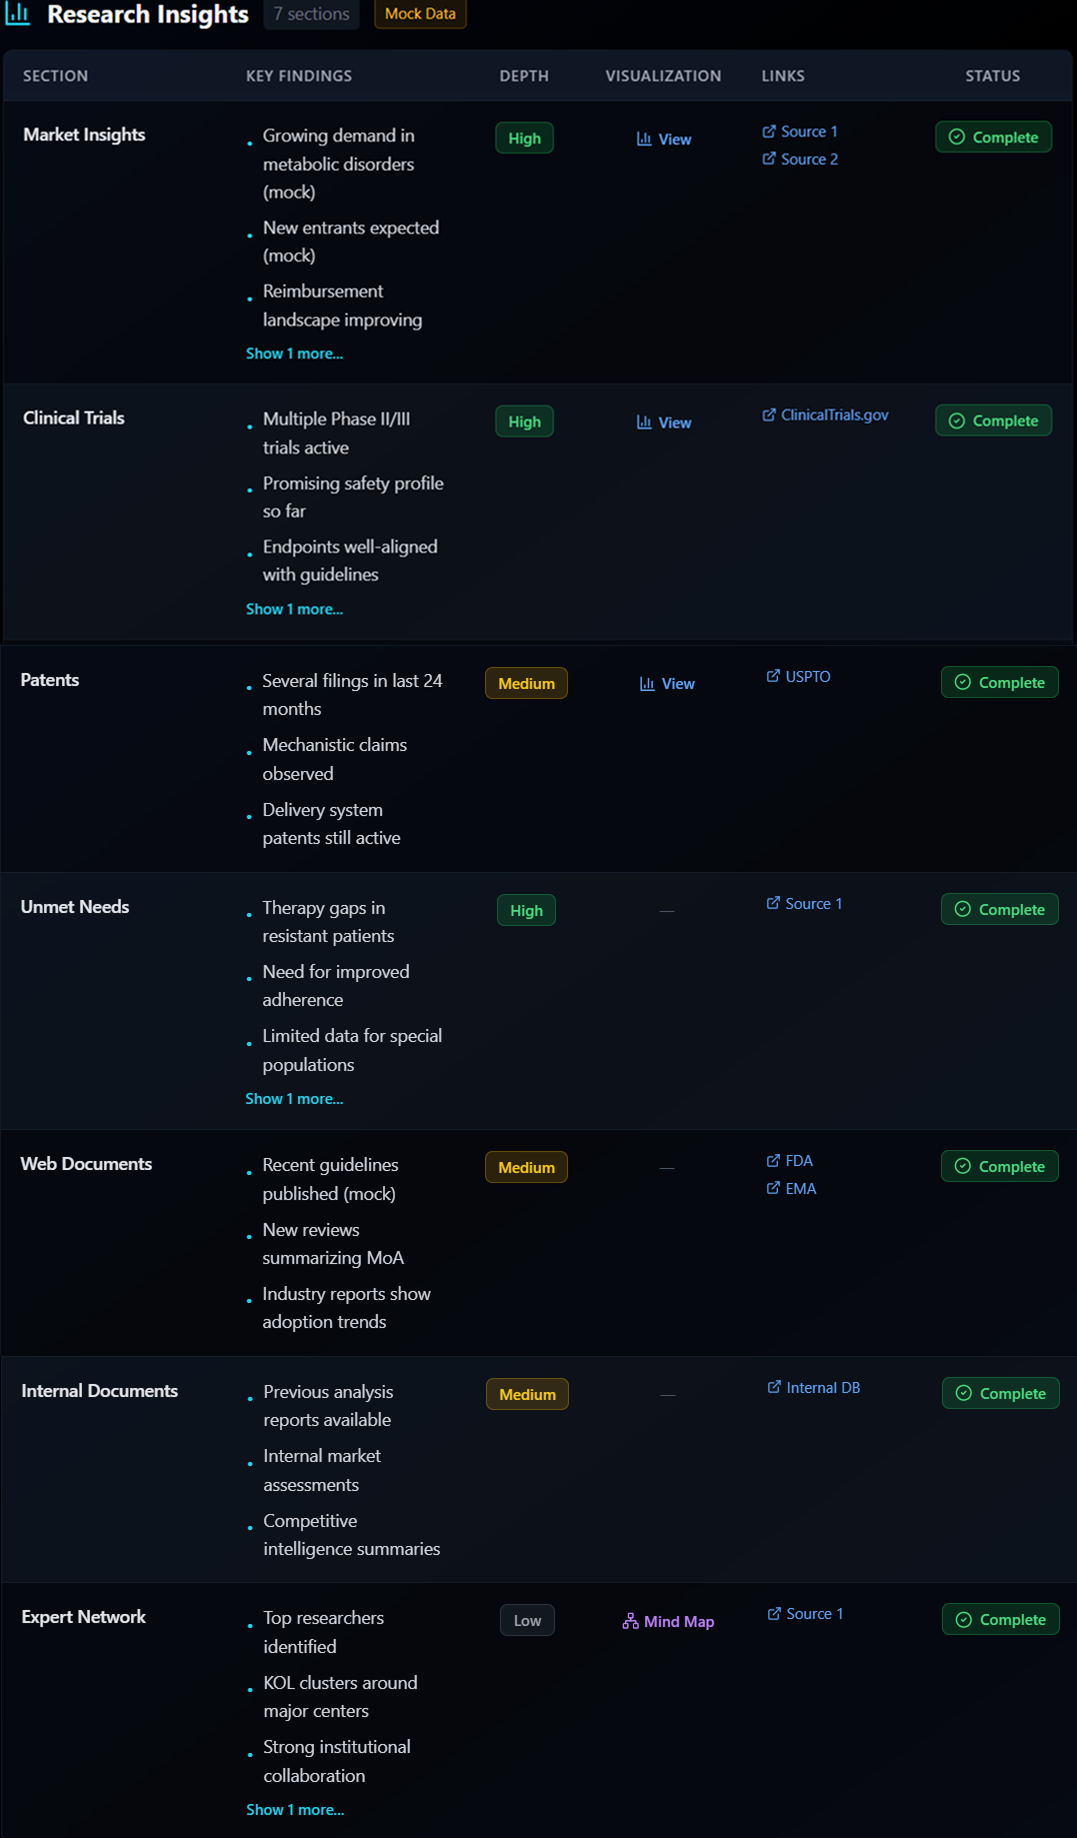
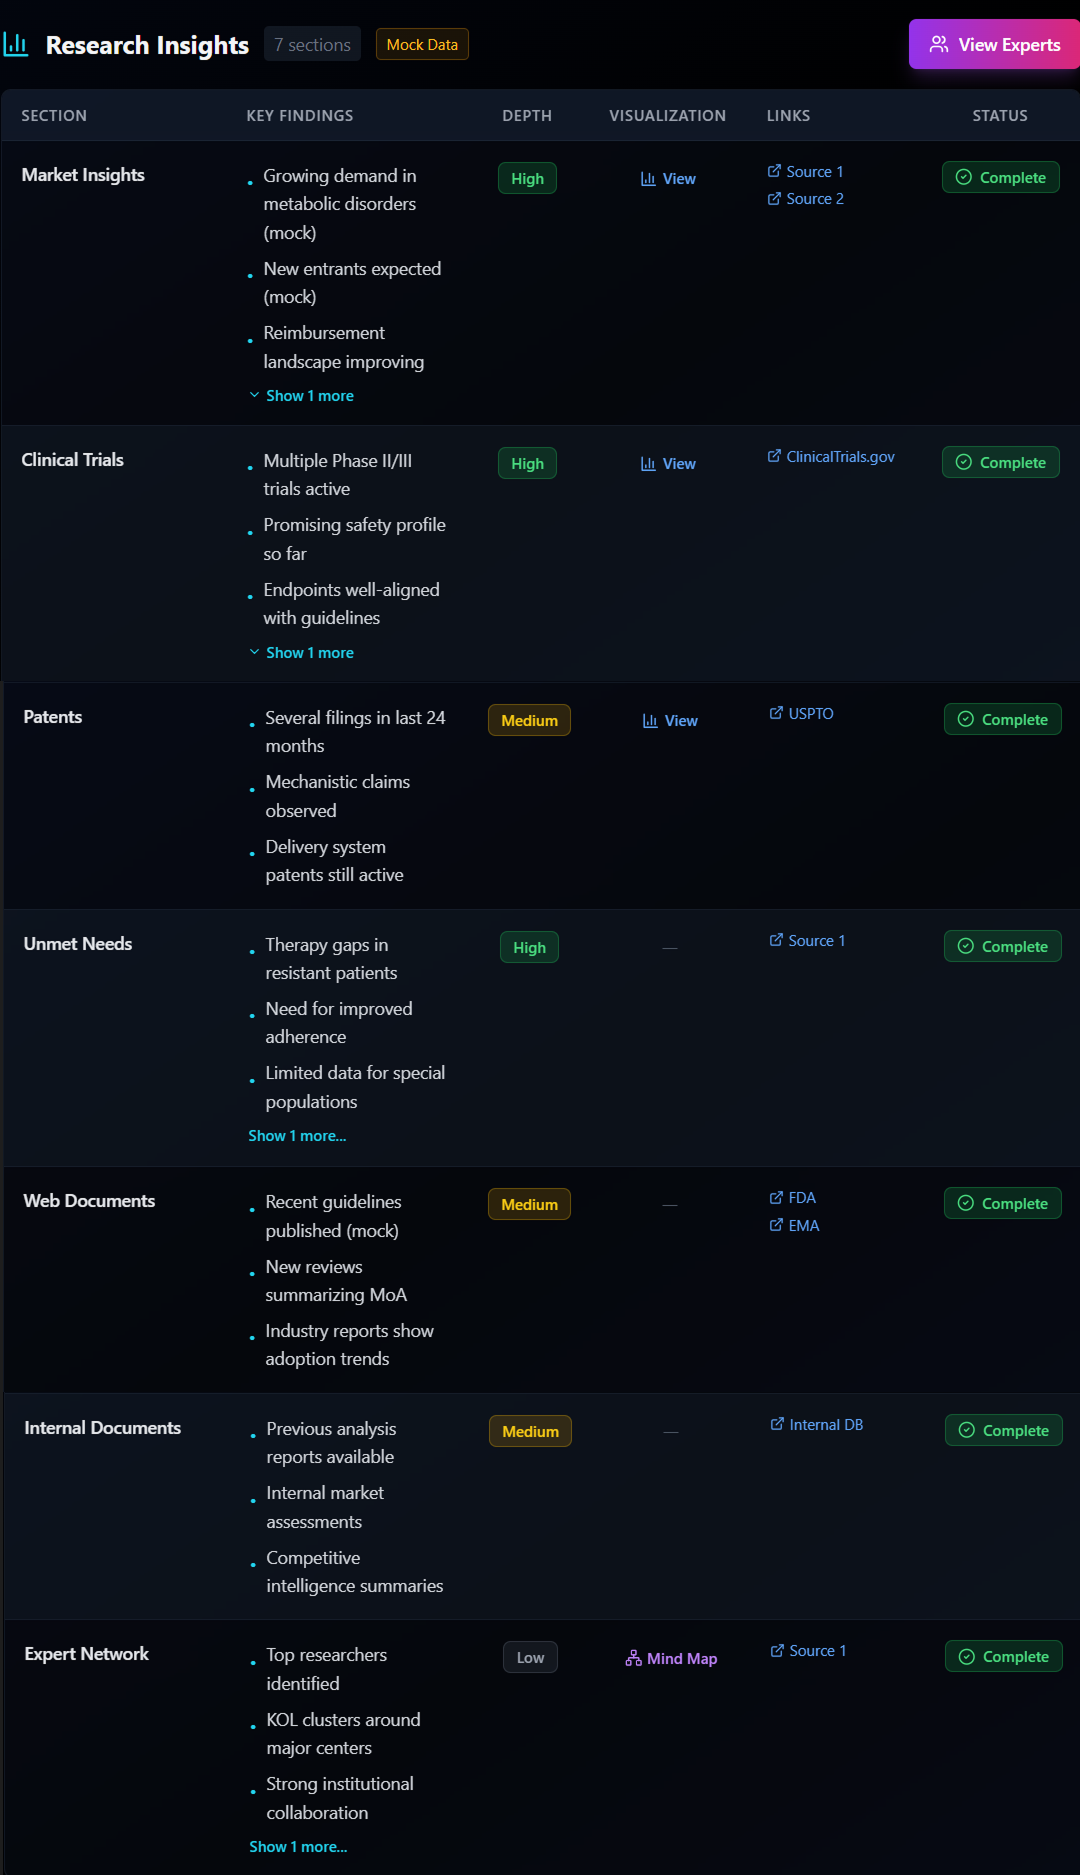
Updated Networks Section

diff --git a/README.md b/README.md
@@ -26,7 +26,7 @@ Avalon transforms scattered medical knowledge into actionable intelligence acros
 | **Database** | MongoDB |
 | **AI/LLM** | LM Studio (Local) |
 | **Streaming** | Server-Sent Events (SSE) |
-| **Graph Visualization** | Force-directed graphs, D3.js |
+| **Expert Directory** | Enterprise-style expert table with network visualization |
 | **Voice Input** | Web Speech API with waveform visualization |
 | **RAG Systems** | Project RAG + Data Source RAG with local embeddings |
 | **Authentication** | JWT-based session management (Currently disabled)
@@ -80,16 +80,17 @@ Upload PDFs, clinical trial documents, research papers, and internal reports. Av
 - Context-aware analysis
 - Seamless integration with research workflows
 
-### Expert Graphs (Fully Implemented)
+### Expert Directory (Fully Implemented)
 
-Avalon automatically builds knowledge graphs connecting researchers, institutions, clinical trials, and publications. These visual networks reveal collaboration patterns, expertise clusters, and research relationships that would be impossible to discover manually. Interactive graph visualizations help identify key opinion leaders, research gaps, and collaboration opportunities.
+Avalon provides a comprehensive Expert Directory system for identifying and exploring key opinion leaders (KOLs) in pharmaceutical research. The clean, enterprise-style table interface displays expert profiles with institution affiliations, specializations, key contributions, and influence scores.
 
 **Features:**
-- Knowledge graph construction
-- Expert identification and profiling
-- Collaboration network analysis
-- Key opinion leader (KOL) identification
-- Interactive visualization
+- Expert identification and profiling with influence scoring
+- Institution and specialization filtering
+- Searchable directory (name, institution, specialization, contributions)
+- Network view showing collaborators, publications, and clinical trials
+- Key opinion leader (KOL) discovery
+- Interactive stats dashboard (total experts, institutions, trials, average influence)
 
 ### Streaming Responses (Fully Implemented)
 
@@ -170,7 +171,7 @@ Avalon automatically adapts its behavior based on query type through seven speci
 - **Research Mode**: Deep pharmaceutical research with multi-agent orchestration
 - **Table Mode**: Automatically generates comparison tables when "compare", "vs", or "differences" detected
 - **Document Mode**: Processes uploaded PDFs, DOCX, and TXT files with structured insight extraction
-- **Expert Mode**: Builds knowledge graphs and identifies key opinion leaders
+- **Expert Mode**: Accesses expert directory and identifies key opinion leaders
 - **Simple Mode**: Quick Q&A responses with concise bullet points for straightforward queries
 
 **Thinking Panel (Fully Implemented):**
@@ -202,7 +203,7 @@ The **Master Agent** serves as the central orchestrator, performing critical fun
 - Safety & PK/PD: Pharmacological analysis, drug interactions, dosing guidance
 - Web Intelligence: Regulatory updates, guideline identification, publication monitoring
 - Internal Documents: Document processing, insight extraction, context integration
-- Expert Networks: Knowledge graph construction, KOL identification, collaboration mapping
+- Expert Networks: Expert directory access, KOL identification, collaboration mapping
 - EXIM Trends: Supply chain intelligence, manufacturing trends, trade flow analysis
 
 ### Local LLM Execution Layer
@@ -355,8 +356,10 @@ Researchers upload clinical protocols, research papers, and internal documents f
 ### Research Insights Table Screenshot
 ![Research Table](/images/Research%20Table.png)
 
-### Expert Network Graph Screenshot(In Developing Phase)
-![Expert Network Graph](/images/Expert%20Network%20Graph.png)
+### Expert Directory Screenshot
+![Expert Directory](/images/Experts.png)
+
+![Networks](/images/Network.png)
 
 ### Report Generation Screenshot of PDF and CSV
 ![PDF Report](/images/Report%20Generated%20PDF.png)
